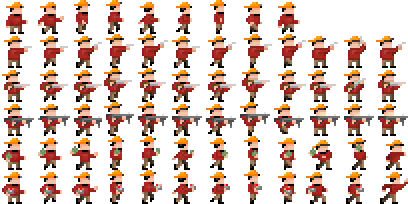
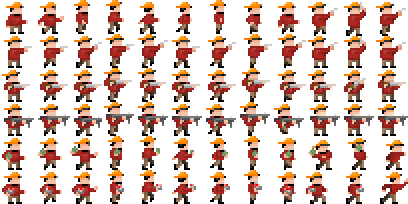
Animation changed: Movement while shooting

Changed region(s): [[0.7353, 0.0, 1.0, 0.1765]]

diff --git a/js/states/game.js b/js/states/game.js
@@ -136,11 +136,12 @@ zombiegame.rungame.prototype = {
     onGameOver: function() {
       if(!this.player.isDead) {
         zombiegame.rungame.player.die();
+        this.buttonLock = this.game.time.now + 700;
       }
 
       // Decrease the scrolling speed
       if(zombiegame.rungame.gamespeed > 0) {
-        zombiegame.rungame.gamespeed -= 0.8;
+        zombiegame.rungame.gamespeed -= 1.5;
         this.houses.setAll("body.velocity.x", -zombiegame.rungame.gamespeed, true);
         this.zombies.setAll("body.velocity.x", -zombiegame.rungame.gamespeed, true);
       }
@@ -169,9 +170,12 @@ zombiegame.rungame.prototype = {
     checkControls: function() {
 
       if(this.player.isDead) {
-        if(this.cursors.right.isDown
-          || (this.game.input.pointer1.isDown)
-          || (this.game.input.mousePointer.isDown)) {
+        if(this.game.time.now > this.buttonLock &&
+          (this.cursors.right.isDown
+          || this.spacebar.isDown
+          || this.cursors.up.isDown
+          || this.game.input.pointer1.isDown
+          || this.game.input.mousePointer.isDown)) {
 
           this.game.state.start("Menu");
         }

diff --git a/js/player.js b/js/player.js
@@ -14,7 +14,7 @@ zombiegame.Player = function(game) {
 
   // set up frames for animation
   this.shootAnimation = this.sprite.animations.add(
-    'shooting', [20, 21, 22, 23], 15, false);
+    'shooting', [9, 10, 11], 15, false);
 
   this.runAnimation = this.sprite.animations.add(
     'right', [1, 2, 3, 4, 5, 6, 7, 8], 20, true);
